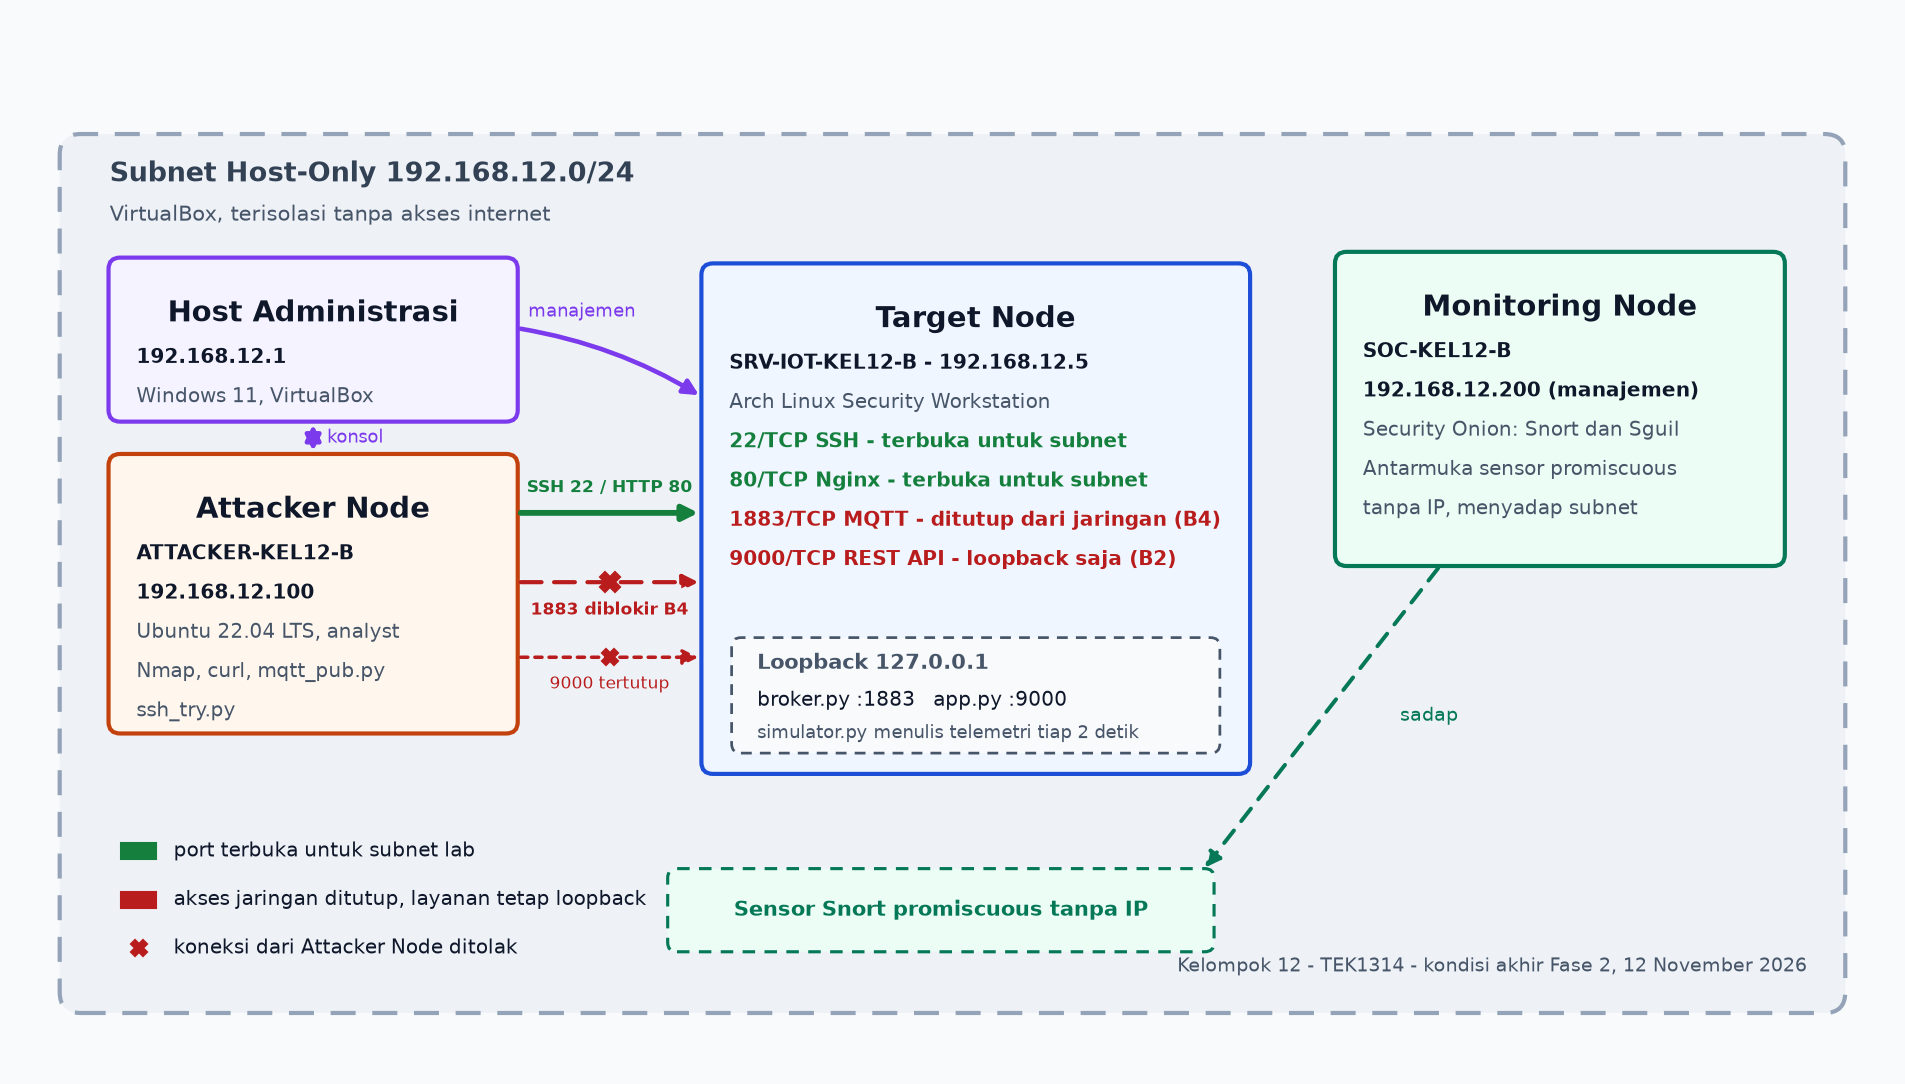
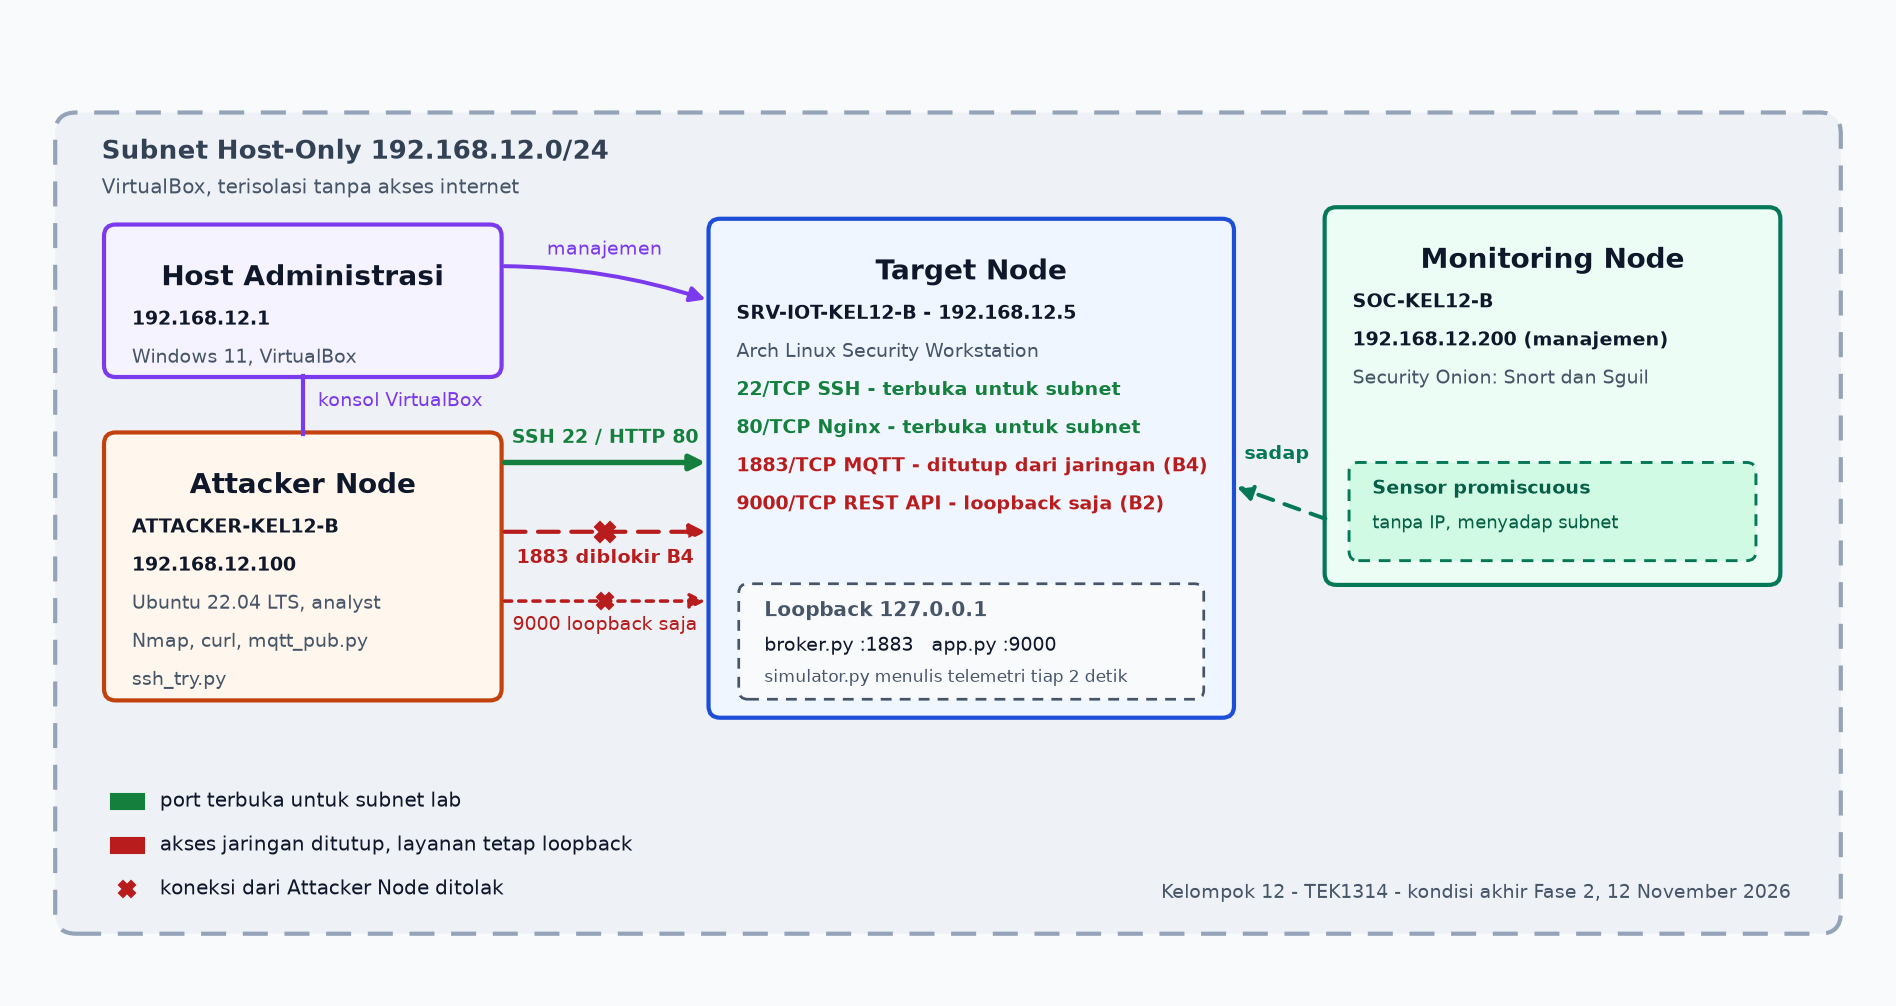
Pulihkan bukti VirtualBox dan rapikan diagram topologi akhir

diff --git a/docs/blueteam/baseline-report.md b/docs/blueteam/baseline-report.md
@@ -23,6 +23,13 @@ Sensor IDS pada Monitoring Node belum terprovisioning saat itu, sehingga penangk
 
 Catatan sistem operasi: `ip_plan.md` awalnya merencanakan Ubuntu Server 22.04 atau Metasploitable 2, sedangkan lab memakai Arch Linux Security Workstation. Layanan dan port yang dibuka menyesuaikan kondisi tersebut; fungsi tiap node tetap sama.
 
+Persiapan lingkungan virtualisasi pada host utama dan host cadangan juga terdokumentasi. Keempat tangkapan VirtualBox berikut tidak memuat kredensial, dan setiap gambar diperiksa ulang sebelum dipindahkan ke folder bukti:
+
+- [LabVM Workstation di host utama](evidence/baseline/virtualbox-host-utama-labvm.png): jendela VirtualBox dengan terminal kosong dan prompt `analyst@secops`.
+- [Desktop Security Onion di host utama](evidence/baseline/virtualbox-host-utama-security-onion.png): desktop Security Onion dengan ikon Sguil, Kibana, CyberChef, dan Squert.
+- [LabVM Workstation di host cadangan, 2 September 2026](evidence/monitoring-node/virtualbox-host-cadangan-labvm.png): jendela VirtualBox dengan prompt `analyst@secops` di atas latar NetAcad CSE Lab VM.
+- [Desktop Security Onion di host cadangan, 2 September 2026](evidence/monitoring-node/virtualbox-host-cadangan-security-onion.png): desktop Security Onion dengan ikon Sguil, Kibana, CyberChef, dan Squert.
+
 ## 2. Hardening
 
 **Jaringan (iptables, karena Target Arch Linux tidak memakai UFW):**

diff --git a/LOGBOOK.md b/LOGBOOK.md
@@ -100,7 +100,7 @@ Seluruh skenario diuji nyata memakai data dummy untuk memverifikasi efektivitas 
 
 - **Kondisi Sebelum Hardening Fase 2:** Pemindaian Nmap mencatat port 22, 80, dan 1883 terbuka. Port 9000 sudah berstatus filtered karena API mendengarkan di `0.0.0.0:9000` tetapi tidak pernah diloloskan firewall. Login SSH `sec_admin` berhasil dengan kata sandi sederhana. Publikasi MQTT ke topik kontrol diterima broker tanpa kredensial. Injeksi telemetri palsu (kelembapan 150%) dan perintah aktivasi pompa manual diterima REST API.
 - **Kondisi Sesudah Hardening:** Upaya login SSH berbasis kata sandi ditolak (`Permission denied (publickey)`). Publikasi MQTT tanpa otorisasi ditolak broker dengan `CONNACK 5`. Injeksi di luar batas ditolak REST API dengan `HTTP 400 Bad Request`, dan request tanpa token ditolak `HTTP 401 Unauthorized`. Port 1883 ditutup lewat kontrol B4, sedangkan port 9000 tetap filtered dan hanya melayani loopback; pemindaian akhir hanya menemukan 22 dan 80 terbuka.
-- Bukti: `docs/blueteam/evidence/` (67 berkas) dan `docs/redteam/evidence/` (19 berkas), termasuk tangkapan layar terminal dan log eksekusi.
+- Bukti: `docs/blueteam/evidence/` (71 berkas) dan `docs/redteam/evidence/` (19 berkas), termasuk tangkapan layar terminal dan log eksekusi.
 
 ### Hasil Analisis dan Kendala Monitoring Node
 
